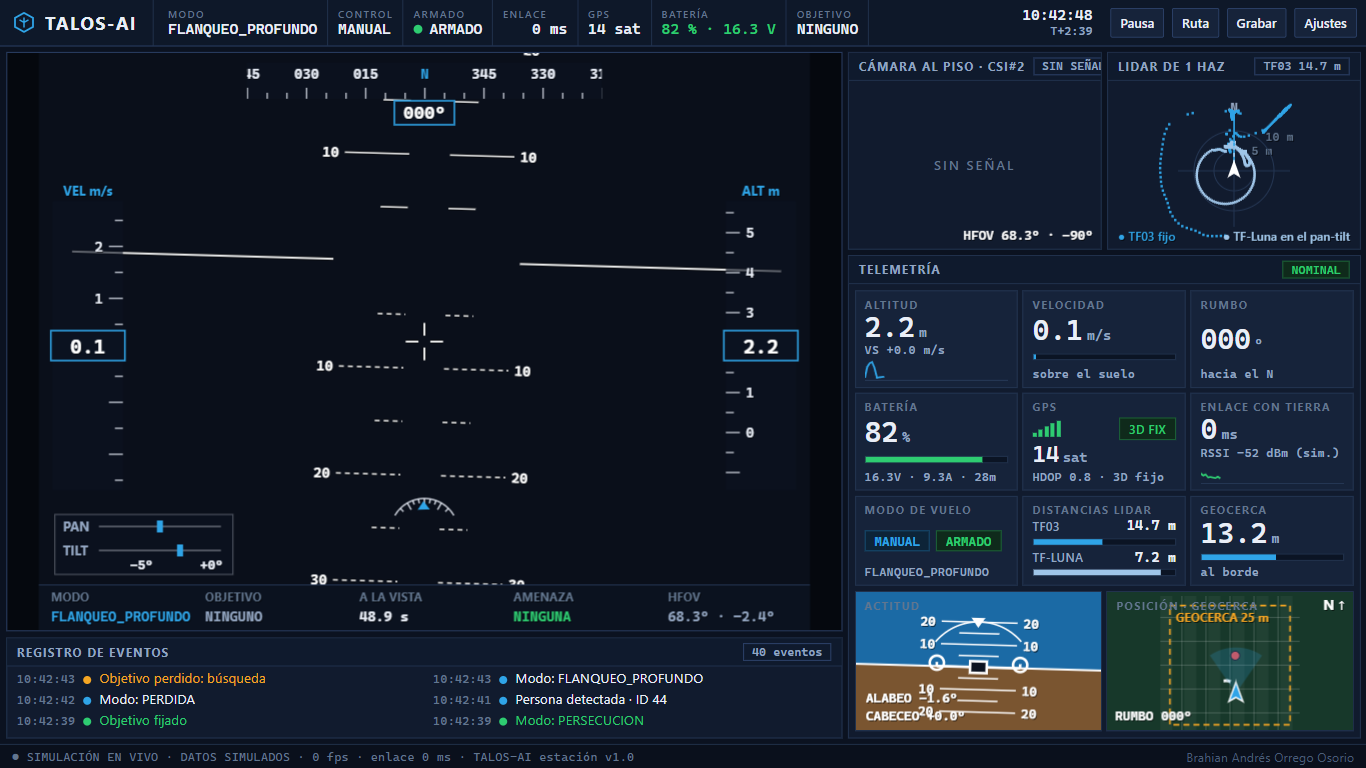
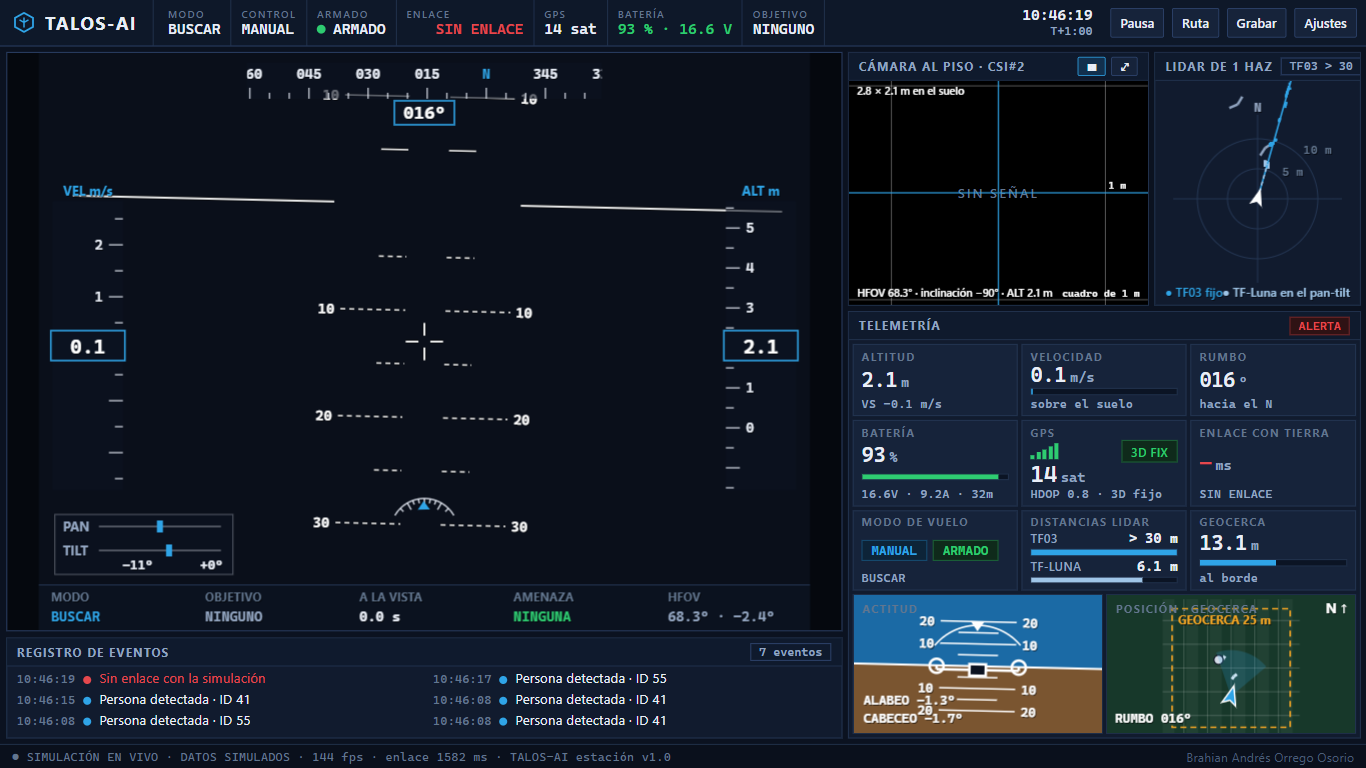
CSI#2 en 4:3 y tamano real (~450x340 en 1920x1080), cuadricula de distancia (K) y modo pantalla grande (X)

diff --git a/04_VISOR_Y_MOTOR_GRAFICO/estacion/operacion.js b/04_VISOR_Y_MOTOR_GRAFICO/estacion/operacion.js
@@ -169,8 +169,17 @@ function dibujarHUD() {
 
 // ------------------------------------------------------------------------------------------------------------------ CSI#2 (rótulo)
 function dibujarCsi2() {
-  const [g, W, H] = ajustar($("hud1")); if (!S.c) return;
-  texto(g, `HFOV ${HFOV}° · −90°`, W - 8, H - 9, "right", "#fff", 13, 600);
+  const [g, W, H] = ajustar($("hud1")), c = S.c; if (!c || W < 60) return;
+  const R = rectImagen(W, H), z = Math.max(0.5, c.d[2]), mpx = z * Math.tan(rad(HFOV / 2)) / (R.w / 2), u = lim(R.h / 330, 0.85, 1.5);   // metros por píxel en el suelo (cámara mirando al piso)
+  if (S.grid1) {
+    const paso = z > 5 ? 2 : 1, cx = R.x + R.w / 2, cy = R.y + R.h / 2;
+    g.save(); g.beginPath(); g.rect(R.x, R.y, R.w, R.h); g.clip(); g.strokeStyle = "rgba(255,255,255,.34)"; g.lineWidth = 1;
+    for (let m = paso; m * 1 / mpx < R.w; m += paso) for (const s of [-1, 1]) { const x = cx + s * m / mpx; g.beginPath(); g.moveTo(x, R.y); g.lineTo(x, R.y + R.h); g.stroke(); const y = cy + s * m / mpx; g.beginPath(); g.moveTo(R.x, y); g.lineTo(R.x + R.w, y); g.stroke(); if (s > 0 && x < R.x + R.w - 24) texto(g, m + " m", x + 3, cy - 4, "left", "#fff", 12 * u, 600); }
+    g.strokeStyle = "rgba(47,164,231,.8)"; g.lineWidth = 1.4; g.beginPath(); g.moveTo(cx, R.y); g.lineTo(cx, R.y + R.h); g.moveTo(R.x, cy); g.lineTo(R.x + R.w, cy); g.stroke(); g.restore();
+    texto(g, `cuadro de ${paso} m`, R.x + R.w - 8, R.y + R.h - 8, "right", "#fff", 12 * u, 600);
+  }
+  texto(g, `HFOV ${HFOV}° · inclinación −90° · ALT ${c.d[2].toFixed(1)} m`, R.x + 8, R.y + R.h - 8, "left", "#fff", 12.5 * u, 600, false);
+  texto(g, `${(R.w * mpx).toFixed(1)} × ${(R.h * mpx).toFixed(1)} m en el suelo`, R.x + 8, R.y + 17 * u, "left", "#fff", 12.5 * u, 600, false);
 }
 
 // ------------------------------------------------------------------------------------------------------------------ mapa de los dos LiDAR
@@ -323,7 +332,7 @@ function devolverIA() { S.estado = "ia"; post("/modo", { modo: "auto" }); aviso(
 // ------------------------------------------------------------------------------------------------------------------ mando: teclado y mouse (ORDENES §G.1)
 const teclas = new Set(); let panAng = 0, tiltAng = -5, ultimoCam = "";
 const VUELO = new Set(["KeyW", "KeyS", "KeyA", "KeyD", "KeyQ", "KeyE", "Space", "KeyC", "KeyF"]);
-const PROPIAS = new Set([...VUELO, "ShiftLeft", "ShiftRight", "ControlLeft", "ControlRight", "KeyV", "KeyM", "KeyG", "KeyB", "KeyP", "KeyR", "Tab", "Digit1", "Digit4", "Escape", "ArrowUp", "ArrowDown", "ArrowLeft", "ArrowRight"]);
+const PROPIAS = new Set([...VUELO, "ShiftLeft", "ShiftRight", "ControlLeft", "ControlRight", "KeyV", "KeyM", "KeyG", "KeyB", "KeyP", "KeyR", "Tab", "KeyX", "KeyK", "Digit1", "Digit4", "Escape", "ArrowUp", "ArrowDown", "ArrowLeft", "ArrowRight"]);
 const eje = (a, b) => (teclas.has(a) ? 1 : 0) - (teclas.has(b) ? 1 : 0);
 const usarCamara = () => post("/camara", { modo: S.asist ? "asistida" : "manual", pan: panAng, tilt: tiltAng });
 function accion(code) {
@@ -331,6 +340,8 @@ function accion(code) {
   if (code === "Tab") return ponerPanel(S.panel === "dron" ? "mapa" : "dron");
   if (code === "Digit1") return ponerPanel("mapa");
   if (code === "Digit4") return ponerPanel("dron");
+  if (code === "KeyX") { const on = $("csi2").classList.toggle("grande"); $("bGrande").textContent = on ? "Volver" : "⤢"; return; }
+  if (code === "KeyK") { S.grid1 = !S.grid1; $("bGrid").classList.toggle("act", S.grid1); return; }
   if (code === "KeyP") return alternarPausa();
   if (code === "KeyR") { S.ruta = !S.ruta; return; }
   if (code === "KeyB") return post("/grabar", { on: !S.grabando });
@@ -414,7 +425,7 @@ function pintarMenu() {
       <tr><td>W S · A D</td><td>adelante·atrás · lado</td><td>Q E</td><td>girar</td></tr><tr><td>Espacio · C</td><td>subir · bajar</td><td>Shift · Ctrl</td><td>rápido · lento</td></tr>
       <tr><td>F (mantener)</td><td>giro de 360° buscando</td><td>Botón central</td><td>arrastrar = pan y tilt</td></tr><tr><td>Clic izquierdo</td><td>fijar al posible objetivo</td><td>Clic derecho</td><td>soltar objetivo</td></tr>
       <tr><td>V · flechas</td><td>cámara asistida · pan/tilt</td><td>G · M</td><td>IA guía · puntos de paso</td></tr><tr><td>Tab · 1 · 4</td><td>alterna vista · mapa · cámara</td><td>R · B · P</td><td>ruta · grabar · pausa</td></tr>
-      <tr><td>Rueda</td><td>zoom del mapa</td><td>Esc</td><td>este menú</td></tr></table>`;
+      <tr><td>Rueda</td><td>zoom del mapa</td><td>Esc</td><td>este menú</td></tr><tr><td>X · K</td><td>cámara al piso grande · cuadrícula</td><td></td><td></td></tr></table>`;
   $("mxCerrar").onclick = alternarMenu;
   document.querySelectorAll("#menuCaja [data-p]").forEach(b => (b.onclick = () => { ponerPanel(b.dataset.p); alternarMenu(); }));
   $("mxIA").onclick = () => { devolverIA(); alternarMenu(); }; $("mxMan").onclick = () => { tomarControl("manual"); alternarMenu(); }; $("mxPts").onclick = () => { tomarControl("puntos"); ponerPanel("mapa"); alternarMenu(); };
@@ -422,7 +433,7 @@ function pintarMenu() {
   $("mxMision").onchange = ev => { const v = ev.target.value; if (v === "vivo") conectar(); else { cargarRep(v).then(() => { S.rep.url = v.split("/").pop().replace(".json", ""); }); } alternarMenu(); };
 }
 $("menu").addEventListener("mousedown", ev => { if (ev.target === $("menu")) alternarMenu(); });
-$("bMenu").onclick = alternarMenu; $("bPausa").onclick = alternarPausa; $("bRuta").onclick = () => accion("KeyR"); $("bGrabar").onclick = () => accion("KeyB");
+$("bGrande").onclick = () => accion("KeyX"); $("bGrid").onclick = () => accion("KeyK"); $("bMenu").onclick = alternarMenu; $("bPausa").onclick = alternarPausa; $("bRuta").onclick = () => accion("KeyR"); $("bGrabar").onclick = () => accion("KeyB");
 
 // ------------------------------------------------------------------------------------------------------------------ arranque
 const q = new URLSearchParams(location.search);

diff --git a/04_VISOR_Y_MOTOR_GRAFICO/estacion/operacion.css b/04_VISOR_Y_MOTOR_GRAFICO/estacion/operacion.css
@@ -50,7 +50,7 @@ select { font: 13px var(--sans); color: var(--texto); background: var(--panel2);
 .cab .est.ok { border-color: #1d6b3c; background: #0f2a1b; } .cab .est.alerta { border-color: #7a5410; background: #2b200a; } .cab .est.peligro { border-color: #7d2a2d; background: #2f1214; }
 .cont { position: relative; flex: 1; min-height: 0; min-width: 0; }
 .cont > canvas, .cont > img { position: absolute; inset: 0; width: 100%; height: 100%; }
-#cam1 { object-fit: cover; display: none; }
+#cam1 { object-fit: contain; display: none; background: #000; }
 #sinvideo2 { position: absolute; inset: 0; display: flex; align-items: center; justify-content: center; color: var(--tenue2); font: 600 13px var(--sans); letter-spacing: 2px; }
 #cam0, #cam1 { filter: url(#luzdia); }                       /* la captura de Unreal no tiene la adaptación de exposición del viewport: se corrige con gamma (filtro SVG de operacion.html) */
 
@@ -62,8 +62,8 @@ select { font: 13px var(--sans); color: var(--texto); background: var(--panel2);
 .ev.ok i { background: var(--ok); } .ev.alerta i { background: var(--alerta); } .ev.peligro i { background: var(--peligro); } .ev span { overflow: hidden; text-overflow: ellipsis; }
 
 /* columna derecha */
-#der { display: grid; grid-template-rows: minmax(0, 29fr) minmax(0, 71fr); gap: 6px; min-height: 0; min-width: 0; }
-#fila1 { display: grid; grid-template-columns: 1fr 1fr; gap: 6px; min-height: 0; }
+#der { display: grid; grid-template-rows: clamp(200px, 33vh, 380px) minmax(0, 1fr); gap: 6px; min-height: 0; min-width: 0; }
+#fila1 { display: grid; grid-template-columns: auto minmax(0, 1fr); gap: 6px; min-height: 0; }
 
 /* telemetría en tarjetas */
 #rejilla { flex: 1; min-height: 0; display: grid; grid-template-columns: repeat(6, minmax(0, 1fr)); grid-template-rows: auto auto auto minmax(0, 1fr); gap: 5px; padding: 6px; }
@@ -97,3 +97,11 @@ select { font: 13px var(--sans); color: var(--texto); background: var(--panel2);
 
 #barra .marca small { white-space: nowrap; }
 @media (max-width: 1600px) { .bajo1600 { display: none; } .chip { padding: 0 10px; } #barra .marca small { display: none; } #barra button { padding: 5px 9px; } }
+
+/* CSI#2: formato 4:3 y tamaño real (ancho = alto de la imagen × 4/3); con X ocupa toda la pantalla */
+#csi2 { width: calc((clamp(200px, 33vh, 380px) - 28px) * 4 / 3); }
+#csi2 .cont { background: #000; }
+#csi2.grande { position: fixed; z-index: 12; top: 46px; left: 0; right: 0; bottom: 24px; width: auto; }
+.acc { display: flex; align-items: center; gap: 6px; } button.mini { font: 600 11.5px var(--sans); padding: 1px 8px; } button.mini.act { border-color: var(--acento); background: #12304d; }
+@media (max-height: 800px) { .t canvas.spark { display: none; } .t { padding: 3px 8px 4px; } #rejilla { gap: 4px; padding: 4px; } .t .cifra { font-size: 21px; } .barra-h { margin: 2px 0; } }
+@media (max-width: 1500px) { #estCsi2 { display: none; } }

diff --git a/04_VISOR_Y_MOTOR_GRAFICO/estacion/operacion.html b/04_VISOR_Y_MOTOR_GRAFICO/estacion/operacion.html
@@ -53,7 +53,7 @@
 
     <aside id="der">
       <div id="fila1">
-        <div class="casilla"><div class="cab"><h4>Cámara al piso · CSI#2</h4><span class="est" id="estCsi2">–</span></div><div class="cont"><img id="cam1" alt=""><div id="sinvideo2">SIN SEÑAL</div><canvas id="hud1"></canvas></div></div>
+        <div class="casilla" id="csi2"><div class="cab"><h4>Cámara al piso · CSI#2</h4><span class="acc"><button class="mini" id="bGrid" title="Cuadrícula de distancia (K)">▦</button><button class="mini" id="bGrande" title="Ampliar / volver (X)">⤢</button><span class="est" id="estCsi2">–</span></span></div><div class="cont"><img id="cam1" alt=""><div id="sinvideo2">SIN SEÑAL</div><canvas id="hud1"></canvas></div></div>
         <div class="casilla"><div class="cab"><h4>LiDAR de 1 haz</h4><span class="est" id="estLidar">–</span></div><div class="cont"><canvas id="lidar"></canvas></div></div>
       </div>
       <div class="casilla" id="tel">

diff --git a/docs/MANUAL_JUEGO_BRAHIAN.md b/docs/MANUAL_JUEGO_BRAHIAN.md
@@ -30,6 +30,7 @@ Mantén la ventana de la estación al frente al teclear: las teclas las lee ella
 | Tab · 1 · 4 | alterna cámara ⇄ mapa · mapa · cámara |
 | R · B · P | ruta de búsqueda · grabar tu demostración · pausa |
 | Rueda | zoom del mapa táctico |
+| **X** · K | cámara al piso (CSI#2) a pantalla grande y volver · cuadrícula de distancia en esa cámara |
 | Esc | Ajustes y ayuda |
 
 ## Cómo se juega la búsqueda
